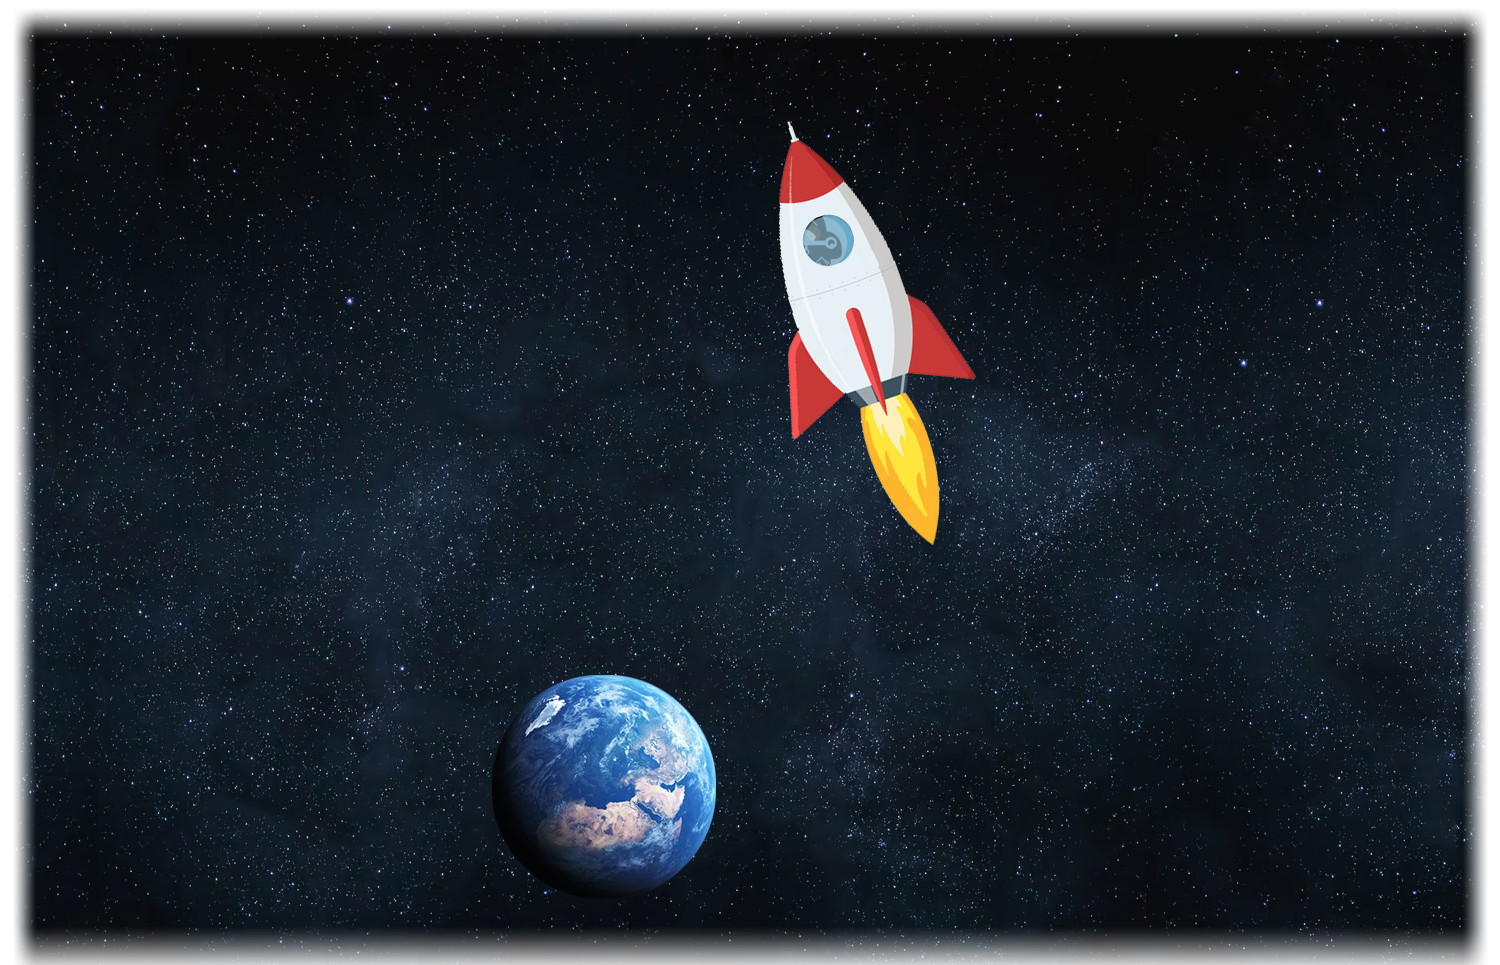
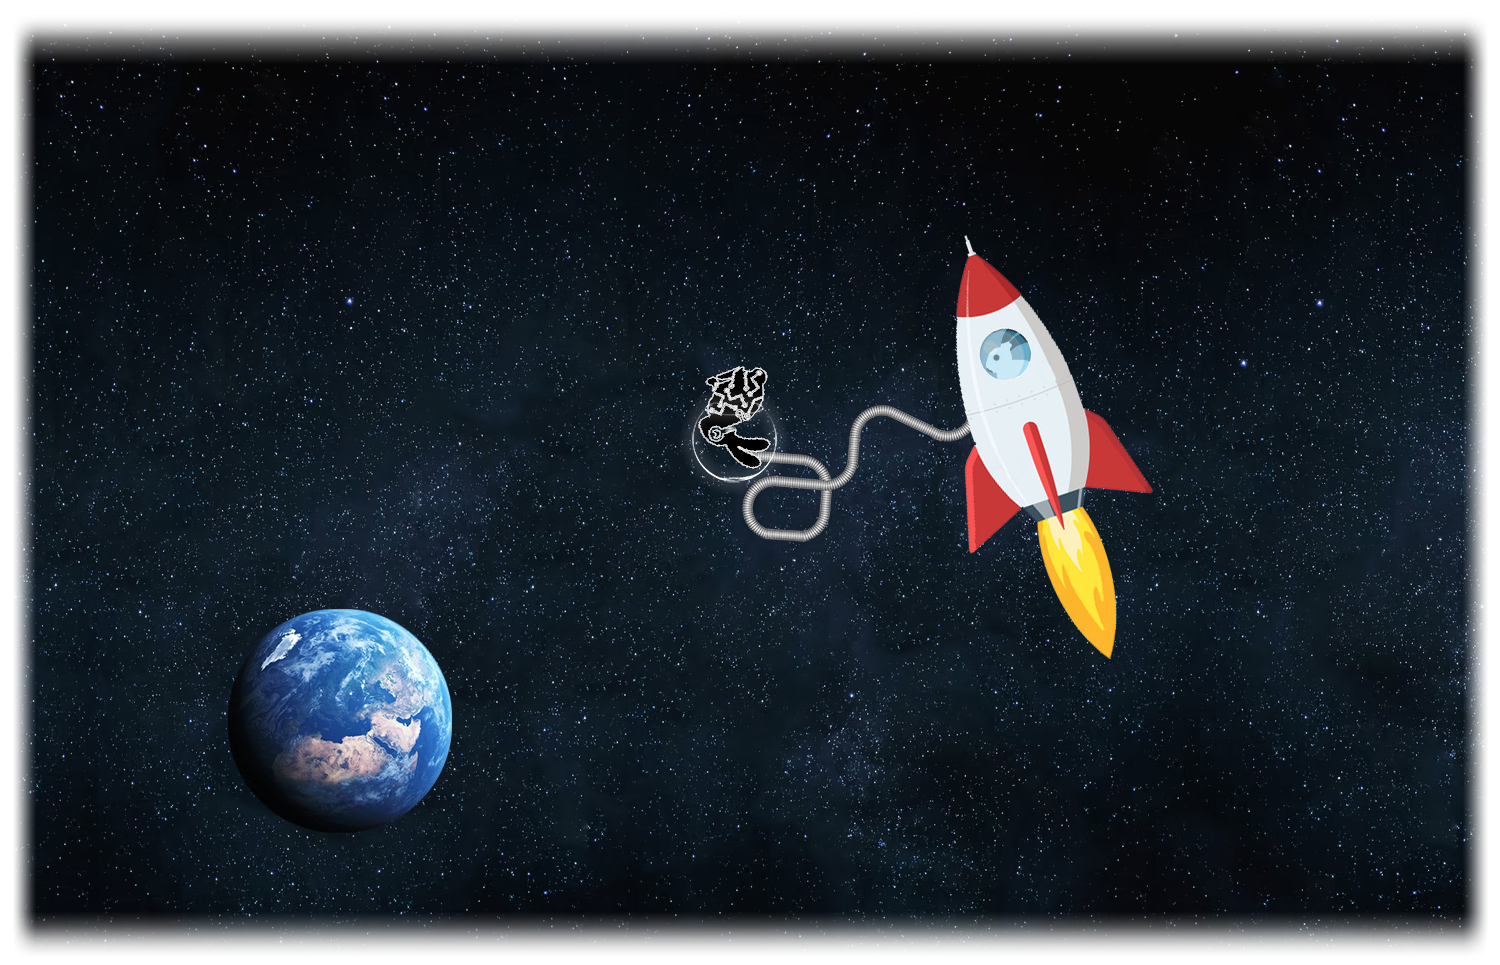
dynamic bg + statics
+moved statics to folder
+robots
+sitemap
+img adjustments
+added dynamic background

Changed region(s): [[0.0, 0.6218, 1.0, 1.0], [0.46, 0.1244, 0.7667, 0.6839], [0.0, 0.0, 1.0, 0.0622]]

diff --git a/assets/common/main.css b/assets/common/main.css
@@ -67,7 +67,6 @@ body {
     font-size: 1.3rem;
     line-height: 1.5;
     color: var(--color-neutral);
-    background: var(--color-primary);
 }
 
 img {
@@ -110,4 +109,35 @@ section:not(:first-child) {
 
 .text-center {
     text-align: center;
+}
+
+.daycycle-background {
+    background: linear-gradient(93deg, #4b4646, #779fe9, #779fe9, #779fe9, #779fe9, #211552, #e80a08);
+    background-size: 1600% 1600%;
+
+    -webkit-animation: daycycle 36s ease infinite;
+    -moz-animation: daycycle 36s ease infinite;
+    -o-animation: daycycle 36s ease infinite;
+    animation: daycycle 36s ease infinite;
+}
+
+@-webkit-keyframes daycycle {
+    0%{background-position:0% 23%}
+    50%{background-position:95% 78%}
+    100%{background-position:0% 23%}
+}
+@-moz-keyframes daycycle {
+    0%{background-position:0% 23%}
+    50%{background-position:95% 78%}
+    100%{background-position:0% 23%}
+}
+@-o-keyframes daycycle {
+    0%{background-position:0% 23%}
+    50%{background-position:95% 78%}
+    100%{background-position:0% 23%}
+}
+@keyframes daycycle {
+    0%{background-position:0% 23%}
+    50%{background-position:95% 78%}
+    100%{background-position:0% 23%}
 }

diff --git a/pages/index.vue b/pages/index.vue
@@ -7,15 +7,14 @@
         alt="Bigital's mascot and logo phil flying a biplane with his passenger & sidekick Socks. Some clouds"
       />
       <p>
-        Let an expert at Bigital help guide your next digital project to help it
-        (and you) soar to new heights!
+        Let an expert at Bigital guide your next digital project to help you soar to new heights!
       </p>
     </section>
 
     <section class="text-center bg-plate">
       <h2>Service Offerings</h2>
       <p>
-        Whether you need a website, a mobile app, hosting service, or a custom
+        Whether you need a website, mobile app, hosting service, or
         software consulting, Bigital can craft the solutions your business or
         great idea needs to get going!
       </p>

diff --git a/layouts/default.vue b/layouts/default.vue
@@ -1,10 +1,10 @@
-<template>
+<template class="daycycle-background">
   <div>
     <TheNavbar />
     
     <TheSidebar />
 
-    <div id="page_wrapper">
+    <div class="daycycle-background" id="page_wrapper">
       <Nuxt />
       <TheFooter />
     </div>
